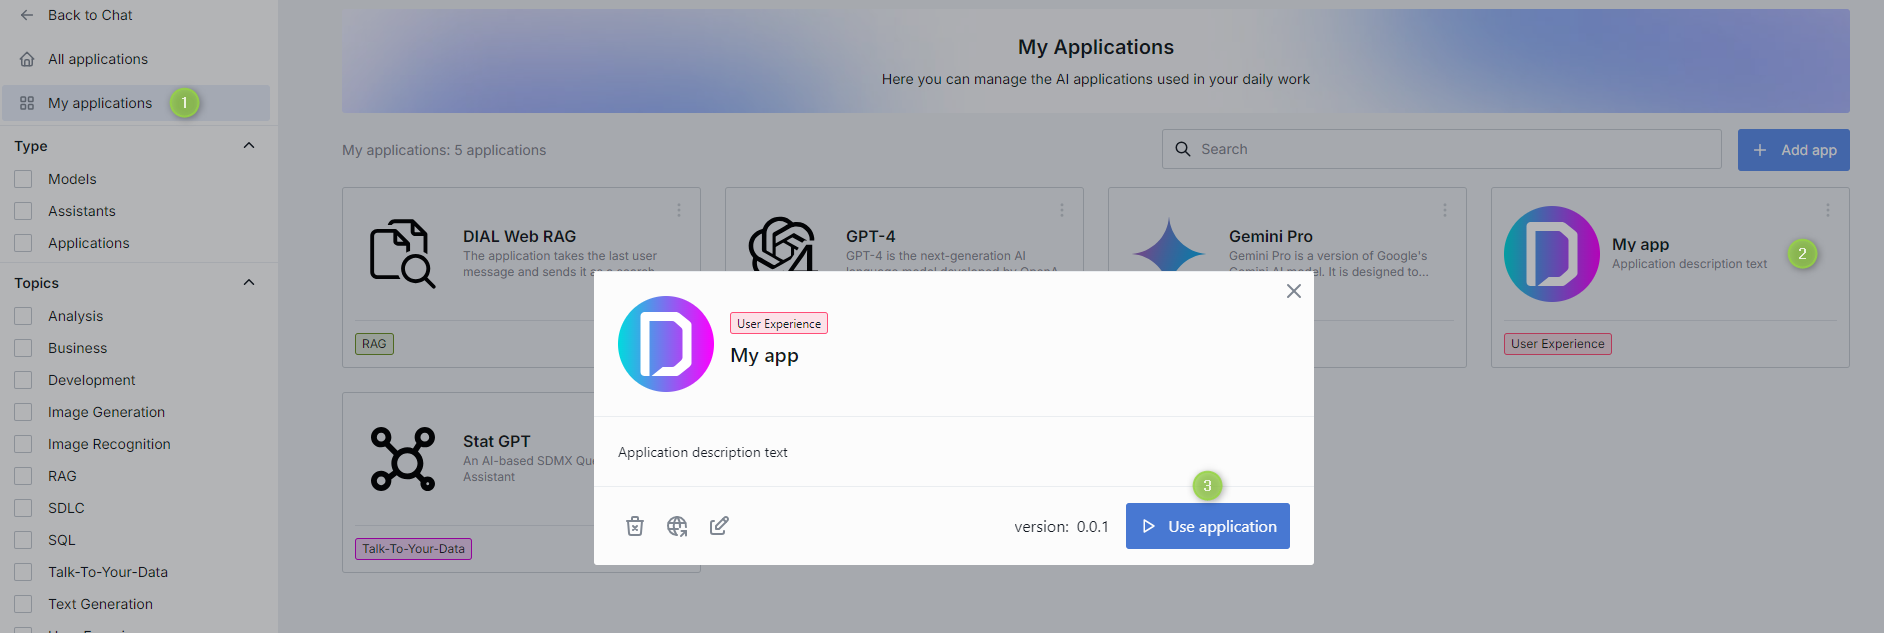
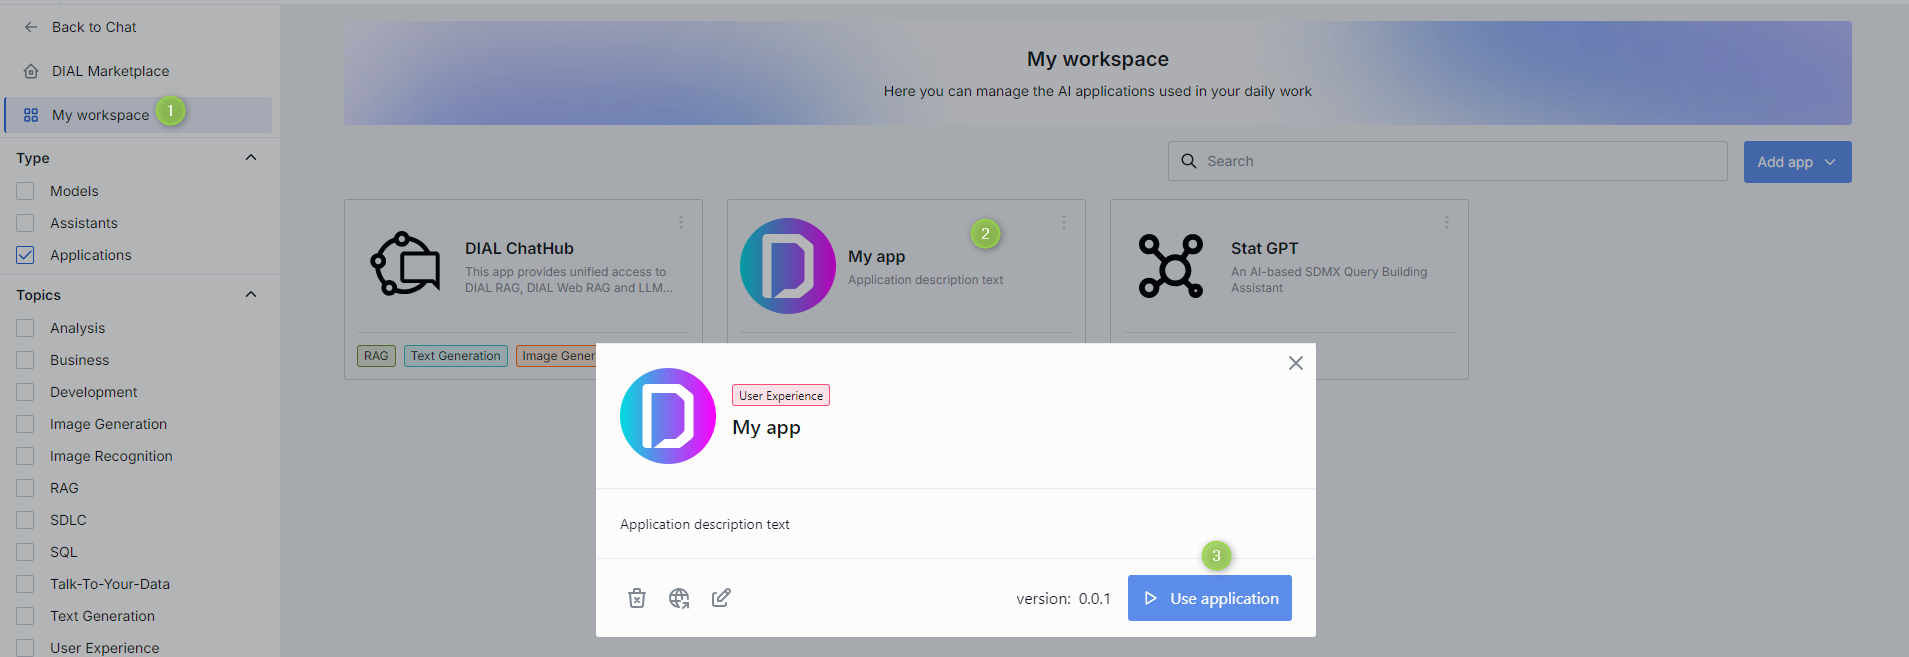
review

diff --git a/docs/user-guide.md b/docs/user-guide.md
@@ -34,9 +34,7 @@ The AI DIAL Chat application interface has several sections, such as the chat bo
 3. [Chat Settings](#chat-settings): In this section, you can select the language model, assistant, application, and addons you'd like to use. You can also provide a system prompt and adjust the temperature setting.
 4. [Prompts](#prompts): In this section, you can work with saved prompts: create new templates, update them, and organize them in folders. You can collapse and expand the panel by clicking the **Hide panel** icon above it.
 5. [User Settings](#user-settings): In your user settings, you can customize the color theme (dark or light), choose a custom logo and other customization options.
-6. [DIAL Marketplace](#dial-marketplace): This section includes all applications, language models and assistants available on your DIAL environment.
-
-
+6. [DIAL Marketplace](#marketplace): This section includes all applications, language models and assistants available on your DIAL environment.
 
 ## Conversations
 
@@ -82,13 +80,13 @@ You can also create a new folder or move a conversation to the existing folder f
 
 New folders will automatically be arranged in the **Pinned conversations** tab in the Conversations panel.
 
-**Hierarchy**
+##### Hierarchy
 
 You can create a hierarchy of folders with three nesting levels. Just create a folder and drag-n-drop it in the other folder to create a nesting level. The same way, you can either drag-n-drop a conversation into a folder or use **Move to** in the context menu of a conversation to move it to a **parent** folder.
 
 > **Note**: empty folders are deleted after refreshing the page.
 
-**Naming Conventions**
+##### Naming conventions
 
 The following symbols in the folders names are prohibited: tab, `"`, `:`, `;`, `/`, `\`, `,`, `=`, `{`, `}`, `%`, `&` and will be excluded. Note that you can use the `.` symbol at the start or inside a name, but the dot at the end will be automatically removed.
 
@@ -102,9 +100,7 @@ The **Search** box can be utilized to find conversations and folders by their na
 
 ### Create
 
-![](./img/conversations.png)
-
-**To create a conversation**:
+##### To create a conversation
 
 1. On the left panel, click **New conversation**.
 2. In the main section, under **Talk To**, select a language model, an assistant, or an application. Five most recently used items are shown in the section. To see all available items, click **See full list**.
@@ -113,11 +109,13 @@ The **Search** box can be utilized to find conversations and folders by their na
 5. Optionally, under **Addons**, select an Addon. For details, refer to the [Addons](#addons) section of this guide.
 6. Under conversation settings, type your text (prompt) in the chat box and click the **Send** icon. The conversation will be created, and your first prompts will be used as its name. 
 
+![](./img/conversations.png)
+
 ### Rename
 
 When you create a new conversation, it is automatically named after the first line in your first prompt. For example, if your prompt includes several sentences separated by tab, the first one will be used to name the conversation. Moreover,the MAX length of the conversation name is limited to 160 symbols. Everything beyond is cut off. After that, you can rename your conversation.
 
-**To rename a conversation**:
+##### To rename a conversation
 
 1. Click **Rename** in the context menu of the selected conversation.
 2. Enter a new name and submit.
@@ -138,7 +136,7 @@ You can share a conversation or a folder with several conversations with other u
 
 > Watch [Collaboration](../video%20demos/demos/dial-collaboration) demo video to learn more about sharing and other collaboration features in AI DIAL.
 
-**To receive a shared conversation**:
+##### To receive a shared conversation
 
 When someone shared a conversation with you, you can find it in the **Shared with me** section in the left panel. 
 
@@ -146,7 +144,7 @@ When someone shared a conversation with you, you can find it in the **Shared wit
 
 > **Important**: you cannot change a conversation that has been shared with you. To be able to work with it, [duplicate it](#duplicate).
 
-**To share a conversation**:
+##### To share a conversation
 
 > **Note**: You can share entire folders with conversations. When you share a folder, all folders and conversations in it will be shared as well.
 
@@ -185,7 +183,7 @@ You can also export all your conversations at once without attachments in a JSON
 
 > Exported conversations are named by the following pattern: prefix "epam_ai_dial_chat", then "with_attachments" if the conversation was exported with attachments, then "month_day". However, the naming convention is configurable in the chat config.
 
-**Export a single conversation with attachments**
+##### Export a single conversation with attachments
 
 1. On the left panel, in the conversation contextual menu, point to **Export**.
 2. Click **With attachments**. 
@@ -194,7 +192,7 @@ The conversation will be exported as a **ZIP** archive.
 
 ![](./img/export-with-att.png)
 
-**Export a single conversation without attachments**
+##### Export a single conversation without attachments
 
 1. On the left panel, in the conversation contextual menu, point to **Export**.
 2. Click **Without attachments**. 
@@ -203,7 +201,7 @@ The conversation will be exported as a **JSON** file.
 
 ![](./img/export-without-att.png)
 
-**Export all conversations**
+##### Export all conversations
 
 To export all conversations, at the bottom of the left panel, click the **Export conversations** icon.
 
@@ -260,7 +258,7 @@ Use **Replay as is** to reproduce the conversation with the original settings.
 
 ![](./img/Replay_as_is.png) 
 
-**To replay a conversation**: 
+##### To replay a conversation
 
 1.	Click **Replay** in the conversation menu. 
 2.	Select **Replay as is** in **More info** in the Replay settings to reproduce the conversation with the original settings or change the conversation settings. 
@@ -322,7 +320,7 @@ Use the Compare mode to compare two new (or two existing) conversations with dif
 
 ![](./img/compare2.png)
 
-**To compare two **new** conversations**:
+##### To compare two NEW conversations
 
 1.	Click the **Compare** icon at the bottom of the left panel.
 2.	Choose settings of the first conversations.
@@ -331,7 +329,7 @@ Use the Compare mode to compare two new (or two existing) conversations with dif
 
 As you can see on the picture above, the system creates two conversations with the same name but adds numbers to them. If you have chosen different language models, the conversations icons on the left panel will differ.
  
-**You can also compare two existing conversations**:
+##### To compare two EXISTING conversations
 
 ![](./img/compare.png)
 
@@ -350,7 +348,7 @@ You can publish conversations to make them available for the target audience.
 
 > **Note**: to publish a shared conversation, [duplicate](#duplicate) it and then publish. 
 
-**To publish a conversation**: 
+##### To publish a conversation
 
 1. Click **Publish** in the conversation menu. 
 
@@ -369,7 +367,7 @@ You can publish conversations to make them available for the target audience.
 
 ![](./img/organization-section.png)
 
-**Versioning**
+##### Versioning
 
 When you make a publication request, it is required to assign it a unique version number. A version must follow format: `0.0.0`. With each request you must provide a new version - the system will not accept two identical versions. 
 
@@ -391,7 +389,7 @@ When you open a published conversation, you can view and switch between its vers
 
 You can unpublish conversations to withdraw them from public use.
 
-**To unpublish a conversation**: 
+##### To unpublish a conversation
 
 1. Click **Unpublish** in the conversation menu. 
 
@@ -455,13 +453,13 @@ New folders will automatically be arranged in the **Pinned prompts** tab in the 
 
 ![](./img/pinned-prompts.png)
 
-**Hierarchy**
+##### Hierarchy
 
 You can create a hierarchy of folders with three nesting levels. Just create a folder and drag-n-drop it in the other folder to create a nesting level. The same way, you can either drag-n-drop a prompt into a folder or use **Move to** in the context menu of a prompt to move it to a **parent** folder.
 
 > **Note**: empty folders are deleted after refreshing the page.
 
-**Naming Conventions**
+##### Naming conventions
 
 The following symbols in the folders names are prohibited: tab, `"`, `:`, `;`, `/`, `\`, `,`, `=`, `{`, `}`, `%`, `&` and will be excluded. Note that you can use the `.` symbol at the start or inside a name, but the dot at the end will be automatically removed.
 
@@ -472,7 +470,6 @@ The MAX length of the folder name is limited to 160 symbols. Everything beyond i
 The **Search** box can be utilized to find prompts and folders by their names. If you have any shared prompts, you can apply **Shared by me** filter to sort them out.
 
 ![](./img/pt_search.png)
-
 
 ### Create
 
@@ -547,7 +544,7 @@ You can share a prompt or a folder with several prompts with other users.
 
 > Watch [Collaboration](../video%20demos/demos/dial-collaboration) demo video to learn more about sharing and other collaboration features in AI DIAL.
 
-**To Receive a Shared Prompt**:
+##### To receive a shared prompt
 
 To obtain a prompt from someone else (receive a shared prompt), you must get a link from them. By clicking on this link, you will import the prompt into your chat.
 
@@ -562,7 +559,7 @@ You can always view prompts that have been shared with you in a dedicated sectio
 * Delete: remove from the list.
 * Export: download in a JSON format.
 
-**To Share a Prompt**:
+##### To share a prompt
 
 To share a prompt or a folder, click **Share** in the contextual menu and copy the link. After someone has opened your link, an arrow icon appears near its name and this prompt can be found when **Shared by me** checkbox in the filter is selected.
 
@@ -612,7 +609,7 @@ You can publish prompts to make them available for the target audience.
 
 > **Note**: to publish a shared prompt, [duplicate](#duplicate-1) it and then publish. 
 
-**To publish a prompt**: 
+##### To publish a prompt 
 
 1. Click **Publish** in the prompt's menu. 
 
@@ -632,7 +629,7 @@ You can publish prompts to make them available for the target audience.
 
 ![](./img/organization-section-prompts.png)
 
-**Versioning**
+##### Versioning
 
 When you make a publication request, it is required to assign it a unique version number. A version must follow format: `0.0.0`. With each request you must provide a new version - the system will not accept two identical versions. 
 
@@ -646,12 +643,11 @@ If you try to publish this prompt again, you will be able to view the last versi
 
 ![](./img/versioning2.png)
 
-
 ### Unpublish
 
 You can unpublish prompts to withdraw them from the public use.
 
-**To unpublish a prompt**: 
+##### To unpublish a prompt 
 
 1. Click **Unpublish** in the prompt's menu. 
 
@@ -793,7 +789,7 @@ Type `/` in the text box to select any previously created prompt as a system pro
 
 You can change system prompts during a conversation by selecting the [Settings](#conversation-settings) icon at the top bar of the conversation. 
 
-#### Example
+##### Example
 
 Let's compare a conversation with a system prompt selected and a conversation without a system prompt. For illustration purposes, we are going to use the compare mode (refer to the [Compare](#compare) section for details) and create two conversations with identical settings except for the system prompt selection.
 
@@ -891,7 +887,7 @@ There can be a few tabs in the Attachments Manager:
 
 ![](./img/att-manager.png)
 
-**To Create a Folder:**
+##### To create a folder
 
 You can create folders and then upload files into them. **Note**, the only way to add a file into a folder is to upload it - you cannot move files between folders.
 
@@ -911,7 +907,7 @@ You can as well perform several actions on your folders:
 
 ![](./img/folder-actions.png)
 
-**To Upload a File:**
+##### To upload a file
 
 To add a file into a folder it is necessary to upload it.
 
@@ -923,7 +919,7 @@ To add a file into a folder it is necessary to upload it.
 
 ![](./img/attachments2.png)
 
-**To Unshare a File**:
+##### To unshare a file
 
 Using the application that supports the attachments of files, you can create a conversation and share it with someone. When a conversation is shared, all the attached to the conversation files are shared as well. In the attachments manager, such shared files are tagged with a blue arrow.
 
@@ -931,7 +927,7 @@ In the file menu, you can choose to unshare it:
 
 ![](./img/file-menu.png)
 
-**To Download Attachments**:
+##### To download attachments
 
 Click a folder to expand it.
 
@@ -940,7 +936,7 @@ Click a folder to expand it.
 
 ![](./img/file-download.png)
 
-**To Delete Attachments**:
+##### To delete attachments
 
 > You won't be able to preview or download a deleted file in a conversation, but you still will see its name.
 
@@ -1040,11 +1036,11 @@ AI DIAL platform serves as an **application server**, offering tools to develop,
 
 DIAL applications can be integrated into the DIAL Core deployment. By doing so, these applications will be immediately available in your chat from the start. For examples, refer to the [dynamic setting](https://github.com/epam/ai-dial-core?tab=readme-ov-file#dynamic-settings) in DIAL Core. Additionally, you can register your custom and deployed applications through the [DIAL API](https://epam-rail.com/dial_api#tag/Applications/paths/~1v1~1applications~1%7BBucket%7D~1%7BApplication%20Path%7D/put) and [DIAL Chat UI](#add-custom-app). In such cases, the configuration of your custom applications, described in a JSON file, is saved in your blob store and accessed by DIAL Core for usage.
 
-## DIAL Marketplace
+## Marketplace
 
 ### Overview
 
-The DIAL Marketplace includes all applications, language models, and assistants that are available within your DIAL environment. Additionally, you can find all applications that have been [published](#publish-app) within your organization here.
+Click **DIAL Marketplace** to navigate to the *home page* of DIAL Marketplace where you can find all [applications](#applications), [language models](#available-models) and [assistants](#assistants) available on your DIAL environment. Here, you can also find all applications [published](#publish-app) in your organization.
 
 ![](./img/dial-marketplace.png)
 
@@ -1055,7 +1051,7 @@ You can navigate to this section form the main chat screen:
 In DIAL Marketplace, there are two sections: 
 
 * [DIAL Marketplace](#dial-marketplace): this section includes all applications, language models and assistants available on your DIAL environment.
-* [My workspace](#my-workspace): this section includes all applications, language models and assistants that you have selected in DIAL Marketplace. In this section, you can also register your custom applications and quick apps.
+* [My workspace](#my-workspace): this section includes all applications, language models and assistants that you have selected in DIAL Marketplace. In this section, you can also register your custom applications.
 
 ![](./img/dial-marketplace2.png)
 
@@ -1069,9 +1065,11 @@ Use the **Type** filters to display any or all applications, language models, an
 
 ### DIAL Marketplace
 
-Click **DIAL Marketplace** to navigate to the *home page* of DIAL Marketplace where you can find all applications, language models and assistants available on your DIAL environment. Here, you can also find all applications [published](#publish-app) in your organization.
+Click **DIAL Marketplace** to navigate to the *home page* of DIAL Marketplace where you can find all [applications](#applications), [language models](#available-models) and [assistants](#assistants) available on your DIAL environment. Here, you can also find all applications [published](#publish-app) in your organization.
 
 ![](./img/dial-marketplace.png)
+
+##### Add to workspace
 
 In the DIAL Marketplace section, you can view details of any item and add it to [My workspace](#my-workspace):
 
@@ -1094,14 +1092,16 @@ If you want to use your custom application, you can register it in AI DIAL Chat 
 
 > **Important Requirement**: Custom applications must provide a chat completion endpoint for DIAL Core and adhere to the [Unified API](https://epam-rail.com/dial_api#/paths/~1openai~1deployments~1%7BDeployment%20Name%7D~1chat~1completions/post) standards to ensure seamless integration and functionality.
 
-In DIAL Chat, you can register and view your applications in the [My workspace](#my-workspace) section. From there, you can select which applications you want to appear in the [Talk To](#talk-to) section, making them available for use in conversations.
-
-![](./img/register-app.png)
-
 ##### To register application
 
 1. Click **Add app** and select **Custom app**.
+
+![](./img/register-app.png)
+
 2. Fill in the [Add application](#addedit-application-form) form
+
+![](./img/add-app.png)
+
 3. The registered application will appear in [My workspace](#my-workspace)
 
 ##### Add/Edit application form
@@ -1118,16 +1118,16 @@ In DIAL Chat, you can register and view your applications in the [My workspace](
 |Max. attachments number|No|The maximal number of attachments the application is allowed to accept. Skip to apply the max integer number. Enter `0` to disable attachments.|
 |Completion URL|Yes|A chat completion URL exposed by your application and used by DIAL Core to send chat completion requests.|
 
-![](./img/add-app.png)
-
 #### Converse
+
+In My workspace, you can select with application, model or assistant you want to have in [Talk To](#talk-to) and then use in your conversations.
 
 1. In [My workspace](#my-workspace), click an app/model/assistant and select to use it.  
 
    ![](./img/select-app.png)
 
 2. Click **Back to Chat** to return to the main chat screen.
-3. Click **New conversation**. The relevant item will appear in the [Talk To](#talk-to) section. From there, you can use it for conversations.
+3. Click **New conversation**. Select the desired item in the [Talk To](#talk-to) section. From there, you can use it for conversations.
 
    ![](./img/select-app2.png)
 
@@ -1148,6 +1148,8 @@ Use Edit in the app's menu to modify the selected application. **Note** that you
 #### Publish App
 
 You can publish your custom applications to make them accessible to the selected audience in your organization. Refer to [Publications](#publications) to learn more about this functionality and to [Tutorials](./tutorials/Collaboration/enable-publications) for a more extended documentation.
+
+> **Note**: all published applications within your organization will appear in DIAL Marketplace for the corresponding audience.
 
 ##### To publish application
 
